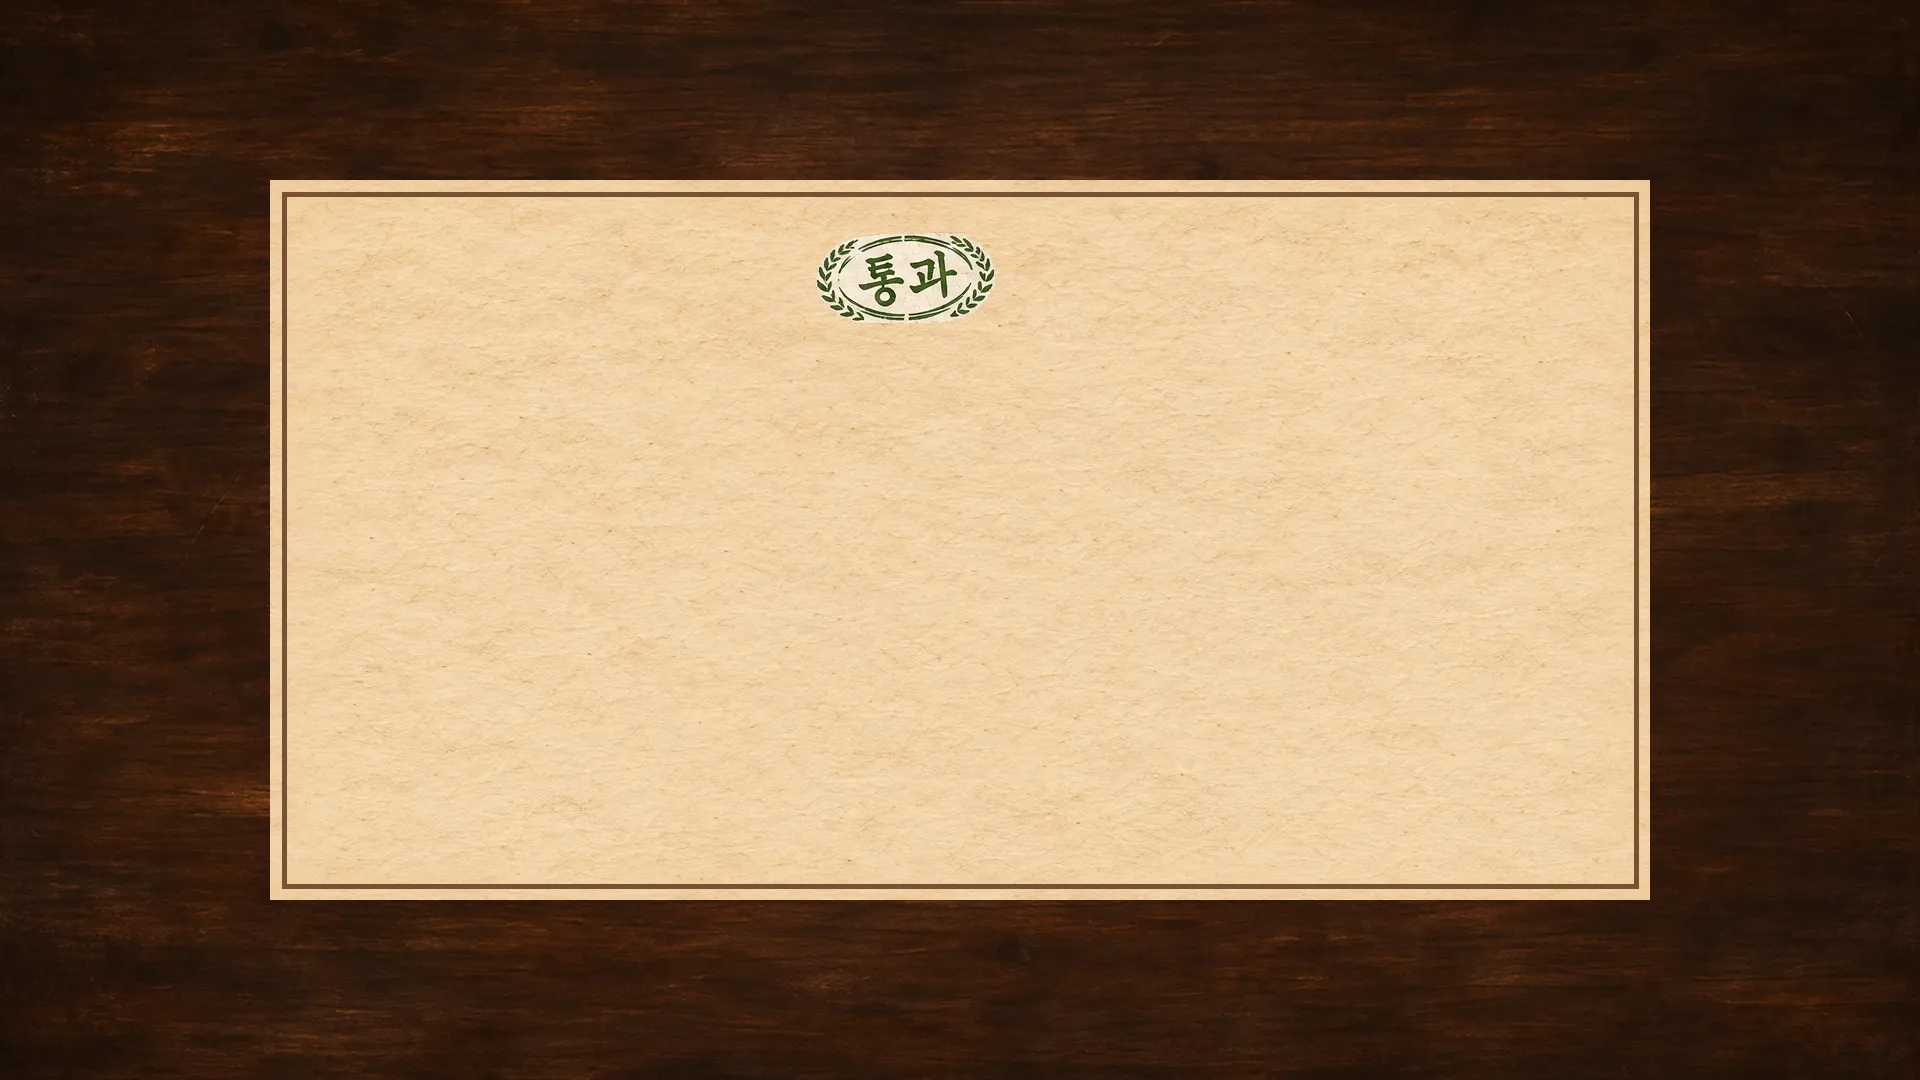
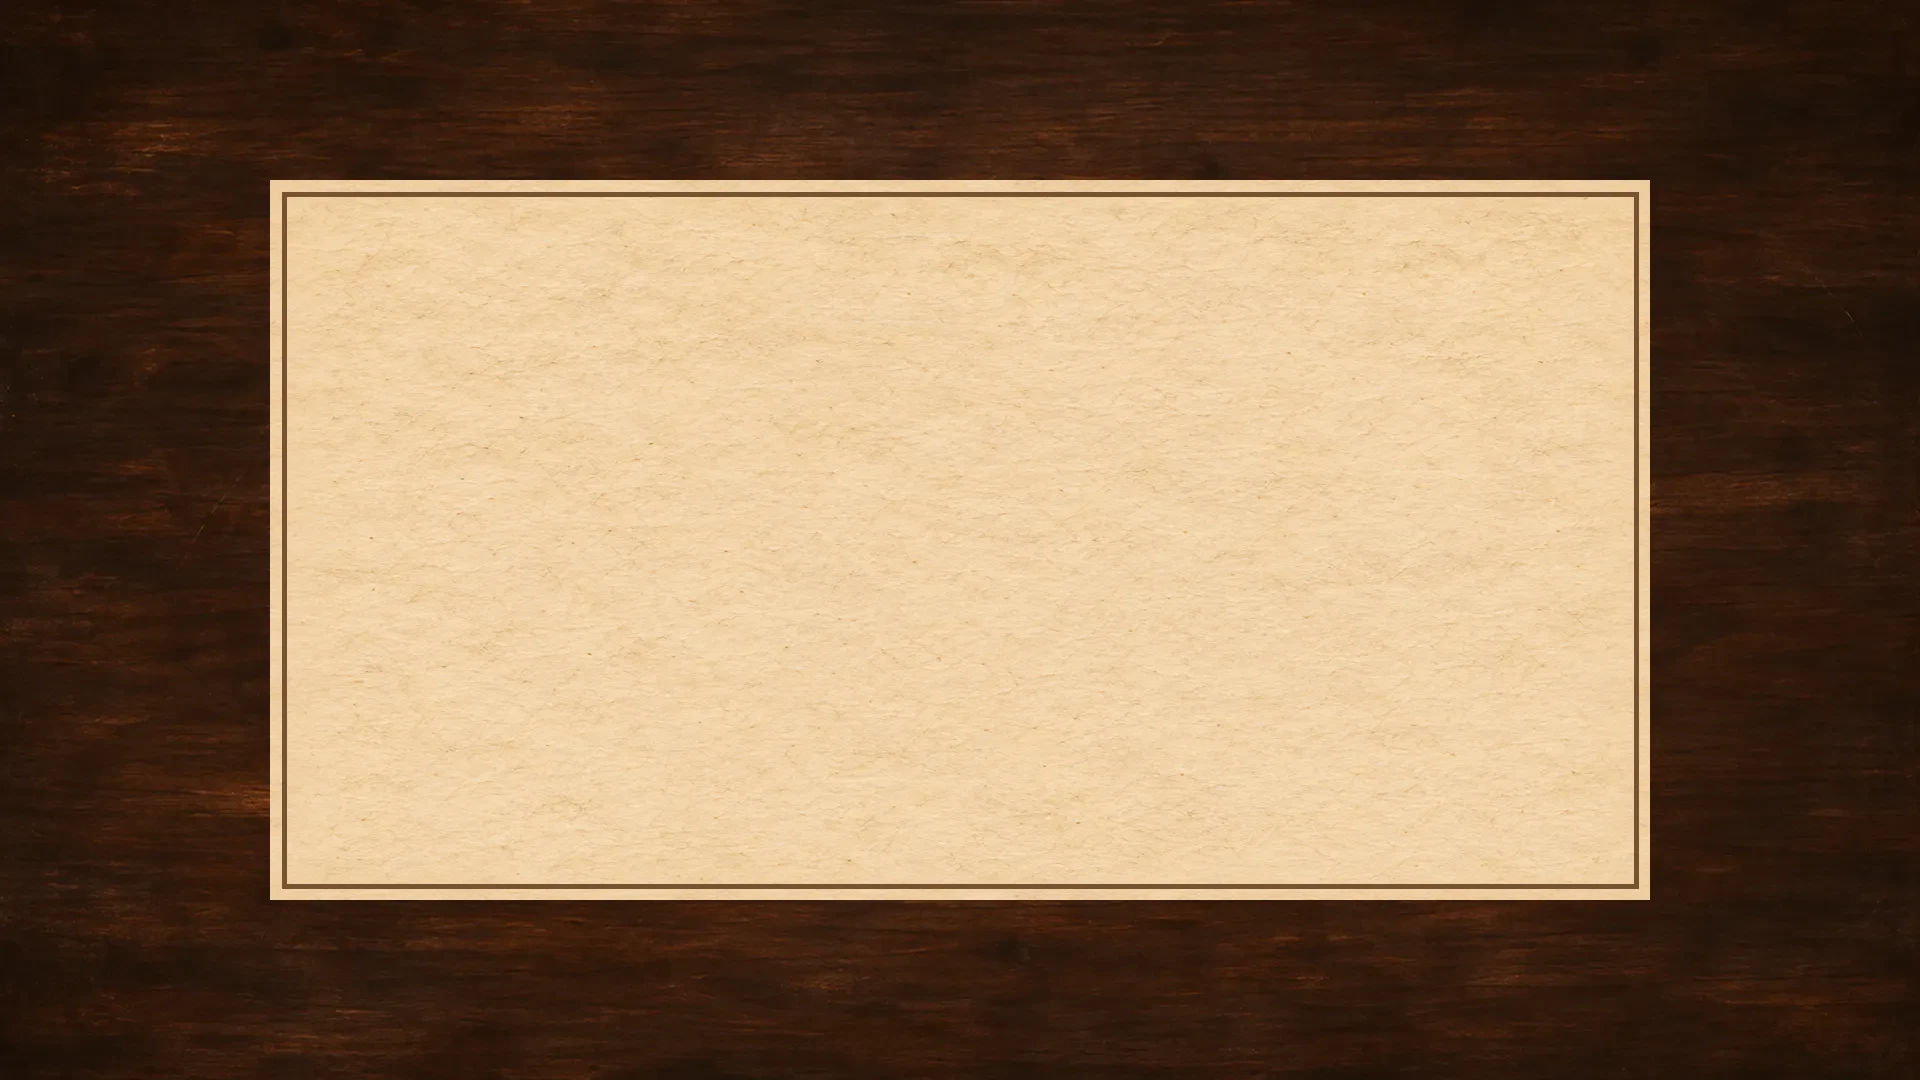
TV 축하 화면 배경에서 월계수 '통과' 도장 지움 (통과 도장 하나만)

Changed region(s): [[0.4062, 0.2139, 0.5312, 0.3056]]

diff --git a/dist/tv/teacher-vintage.css b/dist/tv/teacher-vintage.css
@@ -112,7 +112,7 @@ header>div:last-child{justify-content:center}
 #rv .act .no{background-image:url('vintage-assets/stamp_overlay_review.png')}   /* '검열' 도장 */
 #rv .act .vg{width:22vh;height:7.2vh;padding:0;color:transparent!important;border:0;border-radius:0;box-shadow:none;background:url('vintage-assets/stamp_vague.webp') center/contain no-repeat;filter:drop-shadow(0 .3vh .4vh #0009)}
 #rv .act button:hover{filter:drop-shadow(0 .3vh .4vh #0009) brightness(1.08)}
-#done{background:url('vintage-assets/celebration_background.webp') center/cover no-repeat #20140e}
+#done{background:url('vintage-assets/celebration_background.webp?v=2') center/cover no-repeat #20140e}
 #done:before{content:"";width:min(40vw,34vh);aspect-ratio:196/93;background:url('vintage-assets/stamp_passed.png') center/contain no-repeat;transform:rotate(-6deg)}
 #done .w{color:#8e2f22;background:var(--paper);border:.8vh double #9a3b2c;padding:1vh 4vw;box-shadow:0 1.5vh 3vh #000b}
 #done .s{color:#4b3425;font-weight:800;font-size:3.4vh}

diff --git a/teacher-vintage.css b/teacher-vintage.css
@@ -112,7 +112,7 @@ header>div:last-child{justify-content:center}
 #rv .act .no{background-image:url('vintage-assets/stamp_overlay_review.png')}   /* '검열' 도장 */
 #rv .act .vg{width:22vh;height:7.2vh;padding:0;color:transparent!important;border:0;border-radius:0;box-shadow:none;background:url('vintage-assets/stamp_vague.webp') center/contain no-repeat;filter:drop-shadow(0 .3vh .4vh #0009)}
 #rv .act button:hover{filter:drop-shadow(0 .3vh .4vh #0009) brightness(1.08)}
-#done{background:url('vintage-assets/celebration_background.webp') center/cover no-repeat #20140e}
+#done{background:url('vintage-assets/celebration_background.webp?v=2') center/cover no-repeat #20140e}
 #done:before{content:"";width:min(40vw,34vh);aspect-ratio:196/93;background:url('vintage-assets/stamp_passed.png') center/contain no-repeat;transform:rotate(-6deg)}
 #done .w{color:#8e2f22;background:var(--paper);border:.8vh double #9a3b2c;padding:1vh 4vw;box-shadow:0 1.5vh 3vh #000b}
 #done .s{color:#4b3425;font-weight:800;font-size:3.4vh}

diff --git a/dist/tv/index.html b/dist/tv/index.html
@@ -108,7 +108,7 @@ button:hover{border-color:var(--amber)}
 #setup.show{display:flex}
 #setup input{font:inherit;font-size:5vh;text-align:center;width:20ch;background:var(--card);color:var(--tx);border:3px solid var(--line);padding:1vh}
 </style>
-<link rel="stylesheet" href="teacher-vintage.css?v=3f3b0ce9">
+<link rel="stylesheet" href="teacher-vintage.css?v=40eb7b7d">
 </head>
 <body>
 <div class="room-props" aria-hidden="true"><div class="prop-lamp"><img class="lamp-arm" src="vintage-assets/censor-room/lamp_arm.webp" alt=""><div class="lamp-swing"><i class="lamp-light"></i><img class="lamp-shade" src="vintage-assets/censor-room/lamp_shade.webp" alt=""></div></div><img class="prop-books" src="vintage-assets/censor-room/books.webp" alt=""><img class="prop-ink" src="vintage-assets/censor-room/ink_documents.webp" alt=""><img class="prop-typewriter" src="vintage-assets/censor-room/typewriter.webp" alt=""></div>
